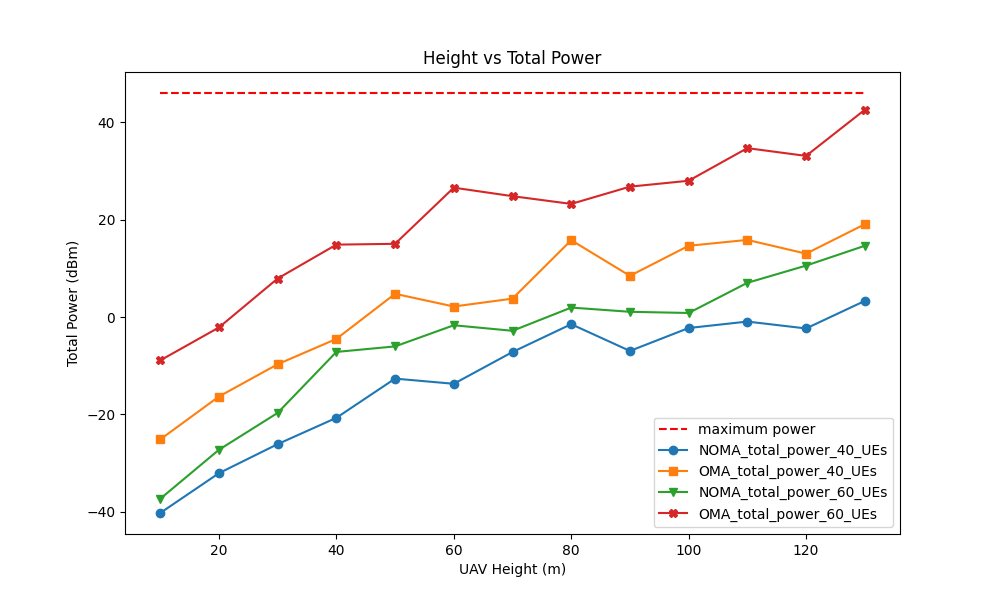
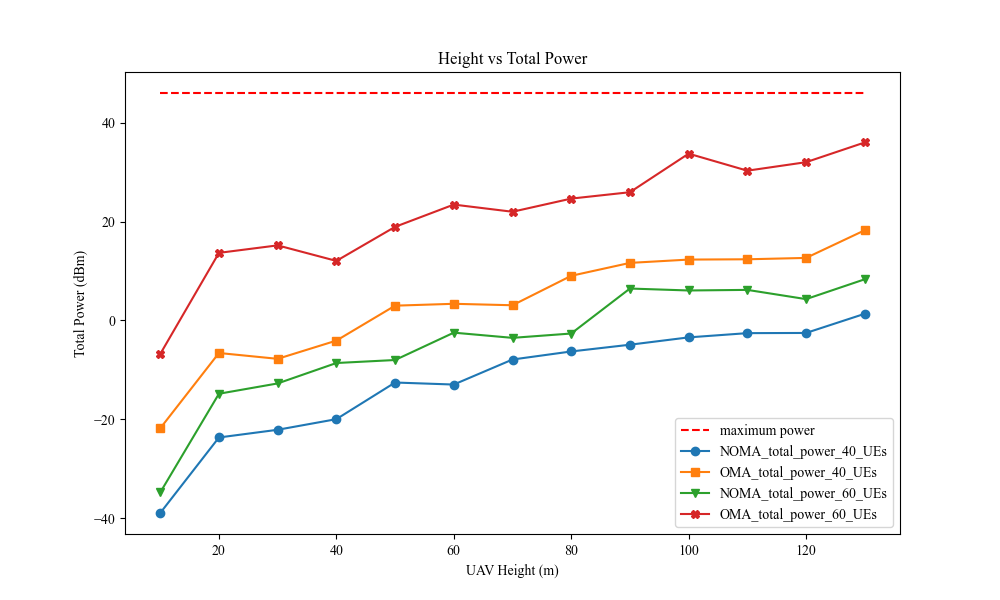
count variable deleted form simu_NOMA and graph fonts changes to 'Times New Roman'

diff --git a/plot_height_vs_power.py b/plot_height_vs_power.py
@@ -1,6 +1,14 @@
 import pandas as pd
 import matplotlib.pyplot as plt
 
+# Update rcParams to use Times New Roman
+plt.rcParams['font.family'] = 'serif'
+plt.rcParams['font.serif'] = 'Times New Roman'
+plt.rcParams['mathtext.fontset'] = 'custom'
+plt.rcParams['mathtext.rm'] = 'Times New Roman'
+plt.rcParams['mathtext.it'] = 'Times New Roman:italic'
+plt.rcParams['mathtext.bf'] = 'Times New Roman:bold'
+
 # Read data from CSV file
 csv_file_name = 'data_height_vs_energyEfficiency.csv'
 data = pd.read_csv(csv_file_name)

diff --git a/plot_user_vs_power.py b/plot_user_vs_power.py
@@ -1,6 +1,14 @@
 import pandas as pd
 import matplotlib.pyplot as plt
 
+# Update rcParams to use Times New Roman
+plt.rcParams['font.family'] = 'serif'
+plt.rcParams['font.serif'] = 'Times New Roman'
+plt.rcParams['mathtext.fontset'] = 'custom'
+plt.rcParams['mathtext.rm'] = 'Times New Roman'
+plt.rcParams['mathtext.it'] = 'Times New Roman:italic'
+plt.rcParams['mathtext.bf'] = 'Times New Roman:bold'
+
 # Read data from CSV file
 csv_file_name = 'data_numberOfUEs_vs_power.csv'
 data = pd.read_csv(csv_file_name)

diff --git a/inputs.py b/inputs.py
@@ -1,7 +1,5 @@
 uav = {
     'coordinate': (0, 0),
-    'height': 40,                      # in meters
-    'service_classes': [1, 3, 5, 20],   # data rate in different service classes
     'min_height': 10,                   # minimum height of the UAV
     'max_height': 130,                  # maximum height of the UAV
     'service_classes': [1, 3, 5, 25],   # data rate in different service classes

diff --git a/simu_NOMA.py b/simu_NOMA.py
@@ -36,7 +36,6 @@ def noma_power_opt(PRB, b, sigma, H, R):
     r = PRB
     k = 0
     l = math.ceil(n / 2)
-    count = n
 
     while r > 0 and sum(v[0:math.ceil(n/2)]) != 0 and sum(v[math.ceil(n/2): n]) != 0:
         
